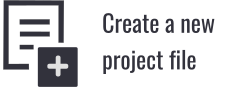
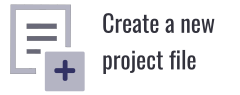
Improvements on GUI looks and feel

Changed region(s): [[0.0, 0.0, 0.3792, 0.9684]]

diff --git a/SOURCE/GUI.DEVELOPMENT/Project_File_Selection_Window/Project_File_Selection_Window.cpp b/SOURCE/GUI.DEVELOPMENT/Project_File_Selection_Window/Project_File_Selection_Window.cpp
@@ -71,14 +71,14 @@ Project_File_Selection_Window::Project_File_Selection_Window( wxWindow * parent,
      this->open_existing_file = this->Rsc_Loader.CreateBitmapFromPngResource(wxString("SELECT_PROJECT_FILE"));
   
 
-     this->SetBackgroundColour(wxColour(225,225,225));
+     this->SetBackgroundColour(wxColour(230,230,235));
 
      
      this->Project_File_Selection_Panel  = new wxPanel(this,wxID_ANY,wxDefaultPosition,wxSize(350,175));
 
      this->Project_File_Selection_Panel->SetMinSize(wxSize(350,175));
 
-     this->Project_File_Selection_Panel->SetBackgroundColour(wxColour(215,215,215));
+     this->Project_File_Selection_Panel->SetBackgroundColour(wxColour(230,230,235));
 
 
 
@@ -89,7 +89,7 @@ Project_File_Selection_Window::Project_File_Selection_Window( wxWindow * parent,
 
      this->Empty_Project_File_Panel->SetMinSize(wxSize(350,175));
 
-     this->Empty_Project_File_Panel->SetBackgroundColour(wxColour(215,215,215));
+     this->Empty_Project_File_Panel->SetBackgroundColour(wxColour(230,230,235));
 
 
      wxStaticBitmap * select_project_file_figure 
@@ -132,9 +132,9 @@ Project_File_Selection_Window::Project_File_Selection_Window( wxWindow * parent,
 
      this->Project_File_Selection_Button_Panel->SetMinSize(wxSize(350,135));
 
-     this->Empty_Project_File_Button_Panel->SetBackgroundColour(wxColour(215,215,215));
+     this->Empty_Project_File_Button_Panel->SetBackgroundColour(wxColour(230,230,235));
 
-     this->Project_File_Selection_Button_Panel->SetBackgroundColour(wxColour(215,215,215));
+     this->Project_File_Selection_Button_Panel->SetBackgroundColour(wxColour(230,230,235));
 
 
 
@@ -170,12 +170,12 @@ Project_File_Selection_Window::Project_File_Selection_Window( wxWindow * parent,
 
      this->Empty_Project_File_Button->SetMinSize(wxSize(150,70));
 
-     this->Empty_Project_File_Button->SetForegroundColour(wxColour(50,50,60));
+     this->Empty_Project_File_Button->SetForegroundColour(wxColour(65,65,75));
 
 
      this->Project_File_Selection_Button->SetMinSize(wxSize(150,70));
 
-     this->Project_File_Selection_Button->SetForegroundColour(wxColour(50,50,60));
+     this->Project_File_Selection_Button->SetForegroundColour(wxColour(65,65,75));
 
 
 
@@ -185,7 +185,7 @@ Project_File_Selection_Window::Project_File_Selection_Window( wxWindow * parent,
 
      this->Empty_Project_File_Text_Panel->SetMinSize(wxSize(350,80));
 
-     this->Empty_Project_File_Text_Panel->SetBackgroundColour(wxColour(50,50,60));
+     this->Empty_Project_File_Text_Panel->SetBackgroundColour(wxColour(200,200,210,0xff));
 
      //this->Empty_Project_File_Text_Panel->SetBackgroundColour(wxColour(200,100,100));
 
@@ -195,7 +195,7 @@ Project_File_Selection_Window::Project_File_Selection_Window( wxWindow * parent,
 
      this->Project_File_Selection_Text_Panel->SetMinSize(wxSize(350,80));
 
-     this->Project_File_Selection_Text_Panel->SetBackgroundColour(wxColour(50,50,60,0xff));
+     this->Project_File_Selection_Text_Panel->SetBackgroundColour(wxColour(200,200,210,0xff));
 
      //this->Project_File_Selection_Text_Panel->SetBackgroundColour(wxColour(68,158,157));
 
@@ -222,7 +222,7 @@ Project_File_Selection_Window::Project_File_Selection_Window( wxWindow * parent,
 
      new_file_text->SetFont(Text_Font);
 
-     new_file_text->SetForegroundColour(wxColour(225,225,225));
+     new_file_text->SetForegroundColour(wxColour(25,25,35));
 
      //new_file_text->SetForegroundColour(wxColour(250,250,250));
      
@@ -240,7 +240,7 @@ Project_File_Selection_Window::Project_File_Selection_Window( wxWindow * parent,
 
      project_file_text->SetFont(Text_Font);
 
-     project_file_text->SetForegroundColour(wxColour(225,225,225));
+     project_file_text->SetForegroundColour(wxColour(25,25,35));
 
      //project_file_text->SetForegroundColour(wxColour(250,250,250));
 

diff --git a/SOURCE/GUI.DEVELOPMENT/Custom_Tree_View_Panel/Custom_Tree_View_Panel.cpp b/SOURCE/GUI.DEVELOPMENT/Custom_Tree_View_Panel/Custom_Tree_View_Panel.cpp
@@ -160,7 +160,7 @@ Custom_Tree_View_Panel::Custom_Tree_View_Panel(wxFrame * frame,
 
      this->Title_Window =  new Custom_Window(this,wxPoint(0,this->tab_ctrl_hight),
      
-                           wxSize(Tab_Bar_size.x,Tab_Bar_size.y-5),wxColour(50,50,60,0xff));
+                           wxSize(Tab_Bar_size.x,Tab_Bar_size.y-5),wxColour(190,190,200,0xff));
 
      this->Title_Window->Receive_Tab_ctrl_Hight(this->tab_ctrl_hight);
 
@@ -189,7 +189,7 @@ Custom_Tree_View_Panel::Custom_Tree_View_Panel(wxFrame * frame,
 
      text->SetFont(textFont);
 
-     text->SetForegroundColour(wxColour(250,250,250));
+     text->SetForegroundColour(wxColour(60,60,95));
 
      // TITLE WINDOW SETTINGS END
 

diff --git a/SOURCE/GUI.DEVELOPMENT/ToolBar_Initializer/ToolBar_Initializer.h b/SOURCE/GUI.DEVELOPMENT/ToolBar_Initializer/ToolBar_Initializer.h
@@ -37,11 +37,11 @@ public:
 
       rect.height++;
 
-      dc.SetPen(wxPen(wxColour(65,65,75,0xff)));
+      dc.SetPen(wxPen(wxColour(60,60,75,0xff)));
 
-      dc.SetBrush(wxColour(65,65,75,0xff));
+      dc.SetBrush(wxColour(60,60,75,0xff));
 
-      dc.DrawRectangle(rect.GetX()-1, rect.GetY() - 2, rect.GetWidth() + 5, rect.GetHeight() + 5);
+      dc.DrawRectangle(rect.GetX()-2, rect.GetY() - 3, rect.GetWidth() + 7, rect.GetHeight() + 7);
     }
 };
 

diff --git a/SOURCE/GUI.DEVELOPMENT/ToolBar_Initializer/ToolBar_Initializer.cpp b/SOURCE/GUI.DEVELOPMENT/ToolBar_Initializer/ToolBar_Initializer.cpp
@@ -65,7 +65,7 @@ void ToolBar_Initializer::Initialize_ToolBar(wxFrame * Frame_Pointer, wxAuiDockA
 
      this->toolBar->Receive_Toolbar_Art(this->Art_Pointer);
 
-     this->toolBar->SetBackgroundColour(wxColour(50,50,60,0xff));
+     this->toolBar->SetBackgroundColour(wxColour(60,60,75,0xff));
 
      this->toolBar->SetArtProvider(this->Art_Pointer);
 

diff --git a/SOURCE/GUI.DEVELOPMENT/Custom_TabArt/Custom_TabArt.cpp b/SOURCE/GUI.DEVELOPMENT/Custom_TabArt/Custom_TabArt.cpp
@@ -214,11 +214,11 @@
 
          if(page.active){
 
-            dc.SetTextForeground(wxColour(0,0,10));
+            dc.SetTextForeground(wxColour(50,50,100));
          }
          else{
 
-            dc.SetTextForeground(wxColour(25,25,25));
+            dc.SetTextForeground(wxColour(50,50,100));
          }
 
 

diff --git a/SOURCE/GUI.DEVELOPMENT/Custom_TabArt/Custom_TabArt.h b/SOURCE/GUI.DEVELOPMENT/Custom_TabArt/Custom_TabArt.h
@@ -24,7 +24,7 @@
 
 // Custom TabArt decleration .........
 
-class Custom_TabArt : public wxAuiDefaultTabArt
+class Custom_TabArt : public 	wxAuiFlatTabArt
 {
 public:
 
